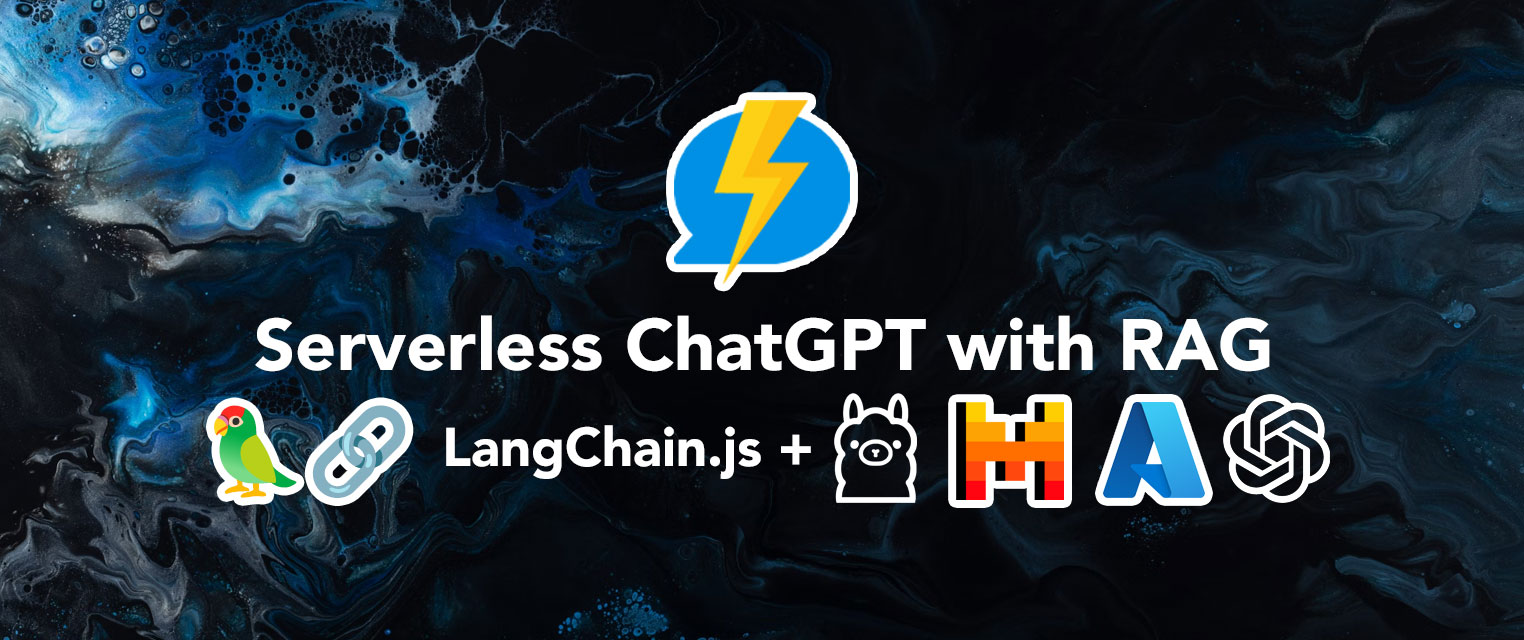
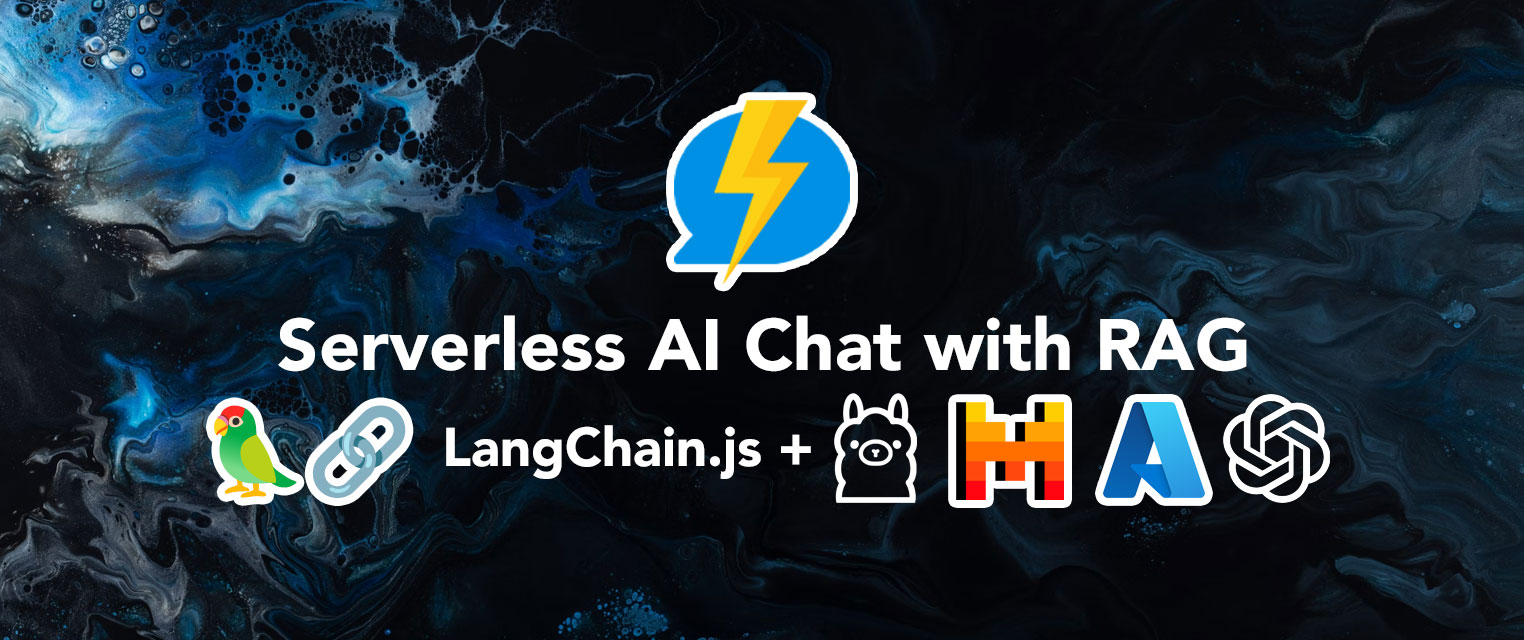
docs: update wording

Changed region(s): [[0.1542, 0.4688, 0.8327, 0.5938]]

diff --git a/articles/azure/serverless-chat/serverless-chat.md b/articles/azure/serverless-chat/serverless-chat.md
@@ -1,5 +1,5 @@
 ---
-title: Build a serverless ChatGPT with RAG using LangChain.js
+title: Build a serverless AI Chat with RAG using LangChain.js
 published: true
 description: 'AI apps can be complex to build, but with LangChain.js and Serverless technologies, you can create an enterprise chatbot in no time. Using PDFs documents as a source of knowledge, we''ll show how to build a support chatbot that can answer questions using a RAG (Retrieval-Augmented Generation) pipeline.'
 tags: 'webdev, javascript, beginners, ai'
@@ -99,7 +99,7 @@ Once the models are downloaded, you can test that the Ollama server is working c
 ollama run mistral
 ```
 
-You should get an invite in your terminal, where you can chat with the AI model directly, like a minimal ChatGPT:
+You should get an invite in your terminal, where you can chat with the AI model directly, like a minimal chatbot:
 
 ![Screenshot of Ollama running the Mistral model](./assets/ollama-mistral.png)
 
@@ -368,8 +368,8 @@ This was only an introduction to the possibilities of building AI-powered applic
 - [Generative AI For Beginners](https://github.com/microsoft/generative-ai-for-beginners): a collection of resources to learn about Generative AI, including tutorials, code samples, and more.
 - [Azure OpenAI Service](https://learn.microsoft.com/azure/ai-services/openai/overview): the official documentation for the Azure OpenAI Service, which provides access to the latest AI models from OpenAI.
 - [Ask YouTube: LangChain.js + Azure Quickstart sample](https://github.com/Azure-Samples/langchainjs-quickstart-demo): another LangChain.js sample project that uses RAG to answer questions from YouTube videos.
-- [ChatGPT + Enterprise data with Azure OpenAI and Azure AI Search](https://github.com/Azure-Samples/azure-search-openai-javascript): an enterprise implementation of the chatbot, using Azure AI Search
-- [Revolutionize your Enterprise Data with ChatGPT: Next-gen Apps w/ Azure OpenAI and AI Search](https://aka.ms/entgptsearchblog): a blog post that explain the RAG approach using Azure OpenAI and Azure AI Search.
+- [Chat + Enterprise data with Azure OpenAI and Azure AI Search](https://github.com/Azure-Samples/azure-search-openai-javascript): an enterprise implementation of the chatbot, using Azure AI Search
+- [Revolutionize your Enterprise Data with Chat: Next-gen Apps w/ Azure OpenAI and AI Search](https://aka.ms/entgptsearchblog): a blog post that explain the RAG approach using Azure OpenAI and Azure AI Search.
 
 You can also find [more Azure AI samples here](https://github.com/Azure-Samples/azureai-samples).
 
